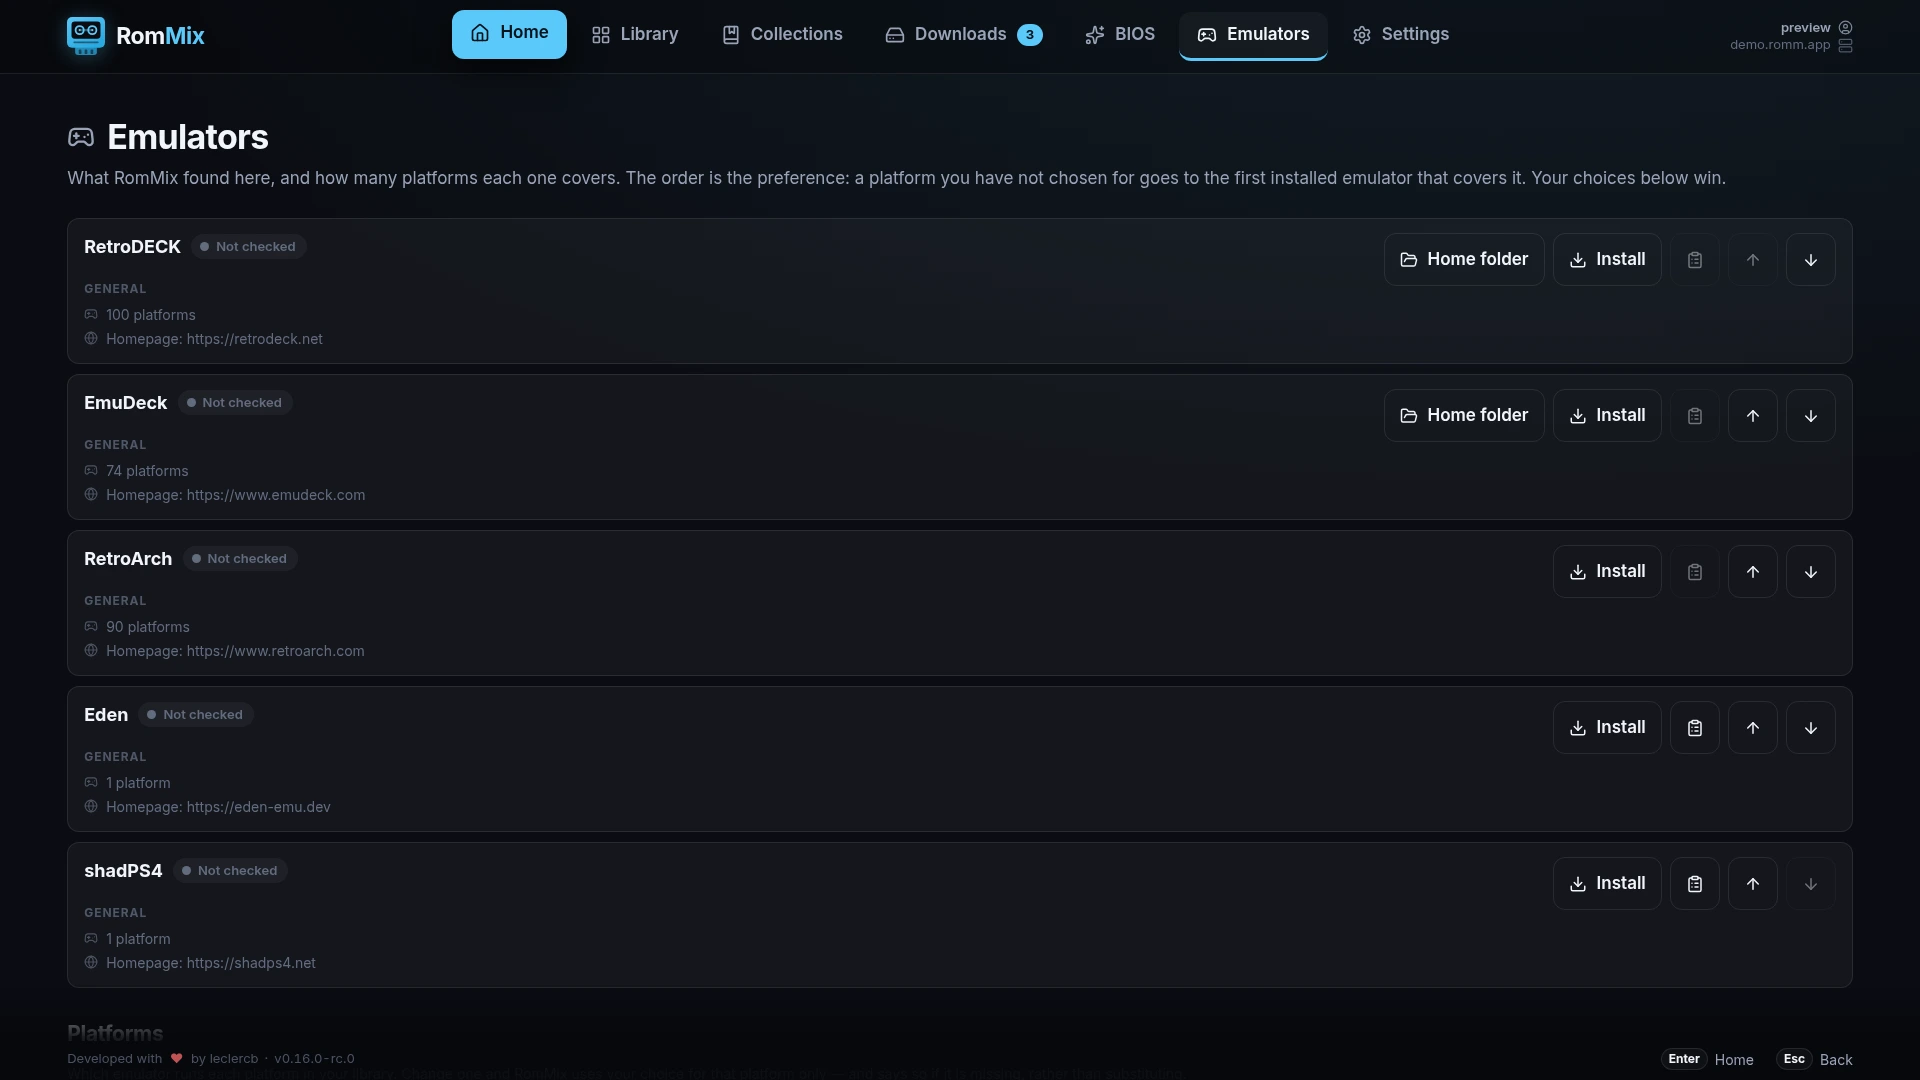
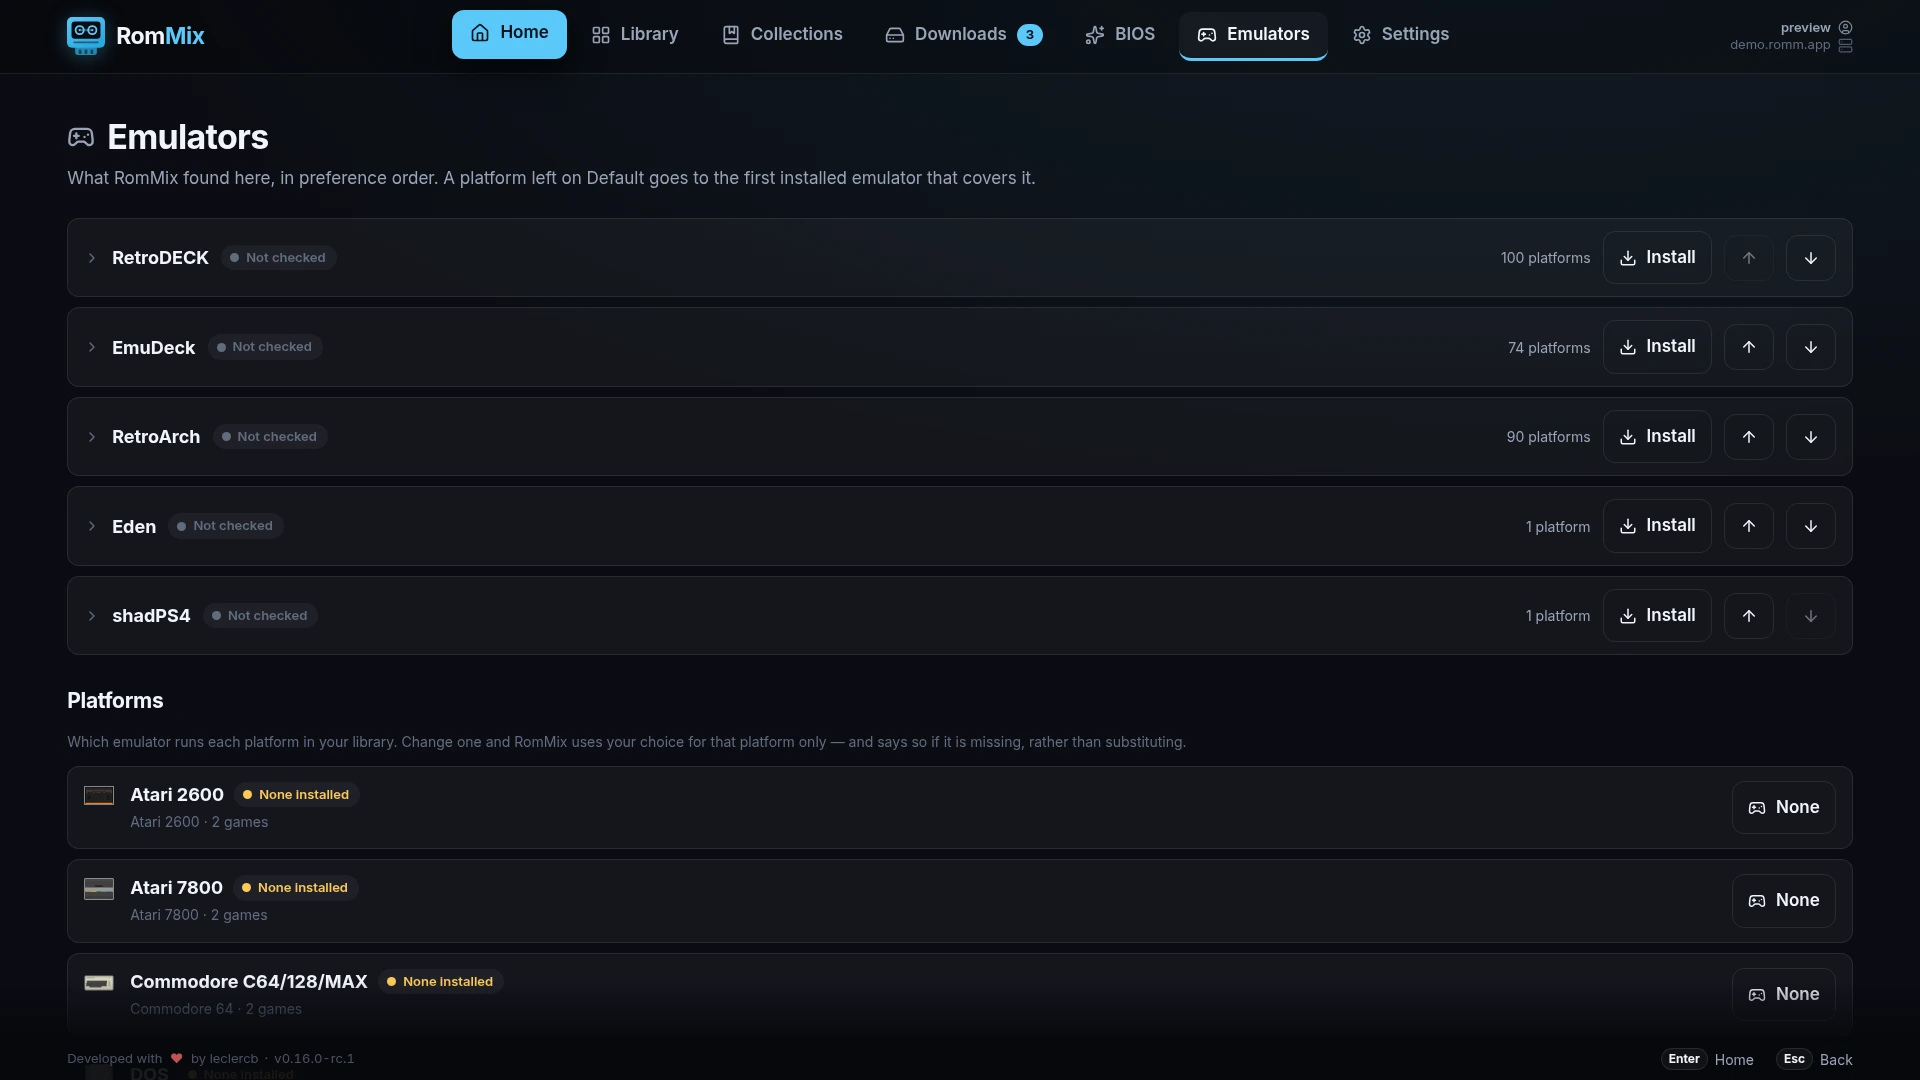
chore(release): 0.16.0-rc.1

diff --git a/CHANGELOG.md b/CHANGELOG.md
@@ -4,6 +4,12 @@ Newest first. `npm run release` adds the entry for a version, falling back to th
 commit subjects and ids since the previous tag — so write the section by hand
 before releasing if you want prose instead. See [Releasing](README.md#releasing).
 
+## 0.16.0-rc.1 — 2026-09-12
+
+- feat: pick a platform's emulator from a list (98f9a65)
+- feat: collapse the rows of the emulator list (153dae4)
+- feat: collapse the BIOS screen's platform sections (522ce0b)
+
 ## 0.16.0-rc.0 — 2026-09-12
 
 - feat: add BIOS requirements for three more systems (0480eaa)
